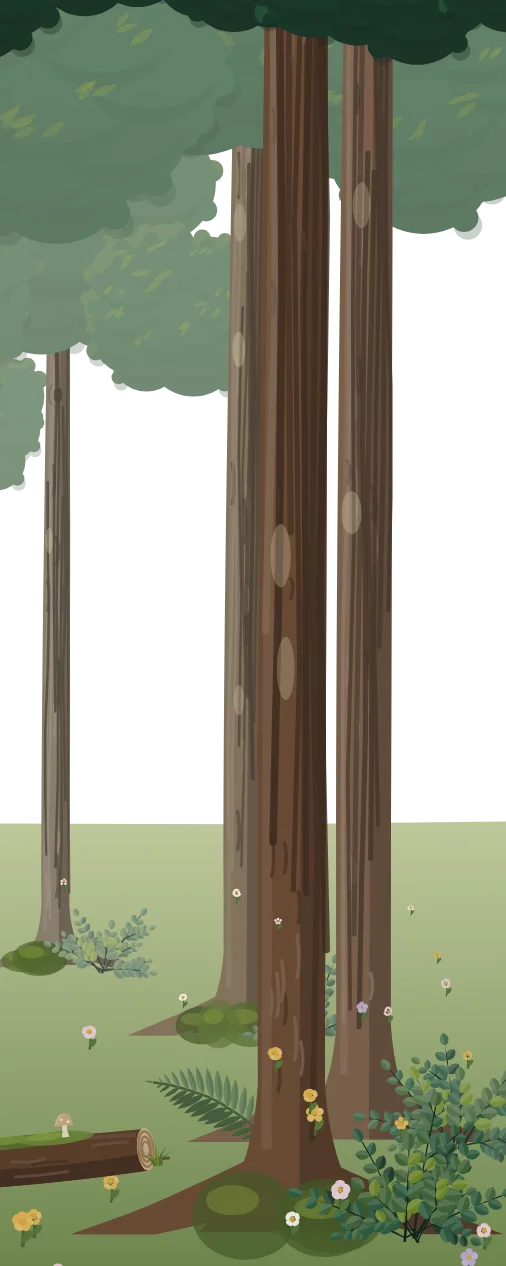
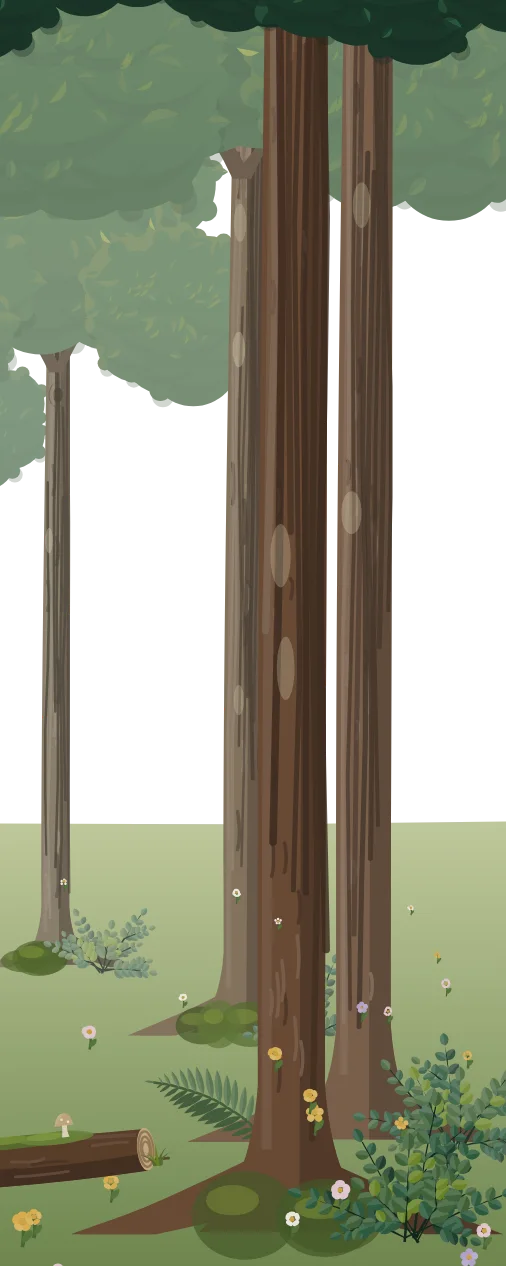
Richer entrance tree crowns
Claude-Session: https://claude.ai/code/session_01EHtmNVvLo6L45VFzzqfGpi

diff --git a/assets/js/nature.js b/assets/js/nature.js
@@ -240,14 +240,28 @@ function crownMass(cx, cy, r, tones, g) {
   s += `<g fill="${body}">${circ(lobes, r * .07, r * .1, .97)}${circ(bumps, r * .05, r * .07)}</g>`;
   // ふくらみどうしの境目：上のふくらみの下のふちに沿って、少し暗い面（奥行き）
   s += `<g fill="${mixC(body, sh, .45)}" opacity=".5">${lobes.filter(([, y]) => y > cy - r * .5).map(([x, y, rr]) => `<path d="M${n1(x - rr * .95)} ${n1(y + rr * .1)}A${n2(rr)} ${n2(rr)} 0 0 0 ${n1(x + rr * .95)} ${n1(y + rr * .1)}A${n2(rr)} ${n2(rr * .7)} 0 0 1 ${n1(x - rr * .95)} ${n1(y + rr * .1)}Z"/>`).join('')}</g>`;
-  // ふくらみの境目に、葉の形の明るい面（上向きのふくらみの上だけ、向きをそろえて）
-  for (const [x, y, rr] of lobes) for (let i = 0; i < 3; i++) {
-    const a = -60 + g() * 50, lx = x - rr * (.35 - g() * .5), ly = y - rr * (.45 + g() * .25), L = rr * (.28 + g() * .12);
-    s += `<path d="M0 0Q${n1(L * .5)} ${n1(-L * .3)} ${n1(L)} 0Q${n1(L * .5)} ${n1(L * .3)} 0 0Z" transform="translate(${n1(lx)} ${n1(ly)}) rotate(${n1(a + 180)})" fill="${rimHi}" opacity=".45"/>`;
-  }
   // 下へなめらかに暗く
-  s += `<rect x="${n1(cx - r * 1.3)}" y="${n1(cy - r * .1)}" width="${n1(r * 2.6)}" height="${n1(r * 1.3)}" fill="url(#${sg})"/></g>`;
+  s += `<rect x="${n1(cx - r * 1.3)}" y="${n1(cy - r * .1)}" width="${n1(r * 2.6)}" height="${n1(r * 1.3)}" fill="url(#${sg})"/>`;
+  // 光の当たるふくらみの中に、作品の葉（葉脈で明るい半分と暗い半分に塗り分けた葉）を、下向きにそろえて少しだけ
+  for (const [x, y, rr] of lobes) { if (y > cy + r * .15) continue; for (let i = 0; i < 4; i++) { const lx = x - rr * (.5 - g() * .8), ly = y - rr * (.3 - g() * .6); { const L = rr * (.2 + g() * .08); s += splitLeaf(lx, ly, L, L * .42, 100 + g() * 50, mixC(hi, rimHi, .5), body, .75); } } }
+  s += '</g>';
+  // ふちの葉：ふくらみのふちから外へ生える形で並べる（かたまりから離れた葉は置かない）。上は光の色、下は陰の色
+  const warm = mixC(rimHi, '#f2e6a6', .25);
+  bumps.forEach(([x, y, br], i) => {
+    if (i % 2) return;
+    const [lx, ly] = [x, y], near = lobes.reduce((m, q) => (Math.hypot(q[0] - x, q[1] - y) - q[2] < Math.hypot(m[0] - x, m[1] - y) - m[2] ? q : m), lobes[0]);
+    const ang = Math.atan2(y - near[1], x - near[0]) * 180 / Math.PI, up = -(y - near[1]) / (near[2] || 1), left = -(x - near[0]) / (near[2] || 1);
+    const lit = up > .3, a = ang + 25 * (ang > -90 && ang < 90 ? 1 : -1) * .5 + (g() - .5) * 20;
+    if (up < -.35) return; // 下のふちには葉を出さない（暗いトゲに見えるので）
+    const [cl, cd] = lit ? [left > .2 ? warm : hi, body] : [hi, body];
+    const L = br * (1.35 + g() * .5); s += splitLeaf(lx, ly, L, L * .42, a, cl, cd, 1);
+  });
   return s;
+}
+// 作品の葉の描き方：先のとがった葉を、葉脈で明るい半分と暗い半分に塗り分ける（根もとが x, y）
+function splitLeaf(x, y, L, w, a, cLight, cDark, op = 1) {
+  const t = `transform="translate(${n1(x)} ${n1(y)}) rotate(${n1(a)})"`, o = op < 1 ? ` opacity="${op}"` : '';
+  return `<path d="M0 0Q${n2(L * .45)} ${n2(-w * 1.25)} ${n2(L)} 0Z" ${t} fill="${cLight}"${o}/><path d="M0 0Q${n2(L * .45)} ${n2(w * 1.25)} ${n2(L)} 0Z" ${t} fill="${cDark}"${o}/>`;
 }
 // シダ：羽片は根元と先が短く、真ん中が長い
 export function fern(x, y, len, a, c, { cls = 'sway', n = 16 } = {}) {
@@ -1113,7 +1127,10 @@ function sceneEntrance(W) {
     mid += tree(x, yb, H, { trunkC, tones: null, w, lean: side * R(0, 1.5) * t, branches: 0 });
     const top = yb - H, cy = top + H * .24, cr = H * .2;
     // 樹冠は crownMass で描く（前の bushMass は乱数の呼び出しだけ残して、並木の配置を変えない）
-    if (cy + cr > -4) { bushMass(x, cy, cr, tones, 26); bushMass(x - side * cr * .7, cy + cr * .45, cr * .7, tones, 18); bushMass(x + side * cr * .6, cy + cr * .5, cr * .6, tones, 16); const gC = hrng(x * 3.7 + cy); mid += crownMass(x, cy, cr, tones, gC) + crownMass(x - side * cr * .7, cy + cr * .45, cr * .7, tones, gC) + crownMass(x + side * cr * .6, cy + cr * .5, cr * .6, tones, gC); }
+    // 木ごとに緑の色味を少し変える（黄みの強い木、青みの強い木）。樹冠の下に、幹から分かれる 2 本の枝をのぞかせる
+    const gT = hrng(x * 1.3 + d), tint = gT() < .5 ? '#c4c86a' : '#6f9a8c', tt = tones.map((c) => mixC(c, mixC(tint, hazeC, z * .6), .08 + gT() * .1));
+    if (cy + cr > -4 && t > .25) { const bc = mixC(trunkC, '#000000', .15), bw = w * .42, by = cy + cr * .55; for (const sd of [-1, 1]) mid += `<path d="M${n1(x - bw * .5)} ${n1(by + cr * .25)}Q${n1(x + sd * cr * .15)} ${n1(by)} ${n1(x + sd * cr * .42)} ${n1(by - cr * .3)}L${n1(x + sd * cr * .42 + bw * .35)} ${n1(by - cr * .3 - bw * .2)}Q${n1(x + sd * cr * .12 + bw * .4)} ${n1(by - bw * .2)} ${n1(x + bw * .5)} ${n1(by + cr * .25)}Z" fill="${bc}"/>`; }
+    if (cy + cr > -4) { bushMass(x, cy, cr, tones, 26); bushMass(x - side * cr * .7, cy + cr * .45, cr * .7, tones, 18); bushMass(x + side * cr * .6, cy + cr * .5, cr * .6, tones, 16); const gC = hrng(x * 3.7 + cy); mid += crownMass(x, cy, cr, tt, gC) + crownMass(x - side * cr * .7, cy + cr * .45, cr * .7, tt, gC) + crownMass(x + side * cr * .6, cy + cr * .5, cr * .6, tt, gC); }
     if (t > .2) mid += shrub(x + side * w * 1.5, yb + .5, 3 + t * 9, [P.dark, P.mid, P.leaf, P.fresh].map((c) => mixC(c, hazeC, z * .7)), { leaf: .6 + t * 1.2, n: t > .6 ? 5 : 4 });
     if (t > .45 && rnd() < .6) mid += fern(x - side * w * 1.4, yb + .5, 4 + t * 9, -side * R(20, 50), mixC(P.leaf, hazeC, z * .5), { cls: '' });
   }
